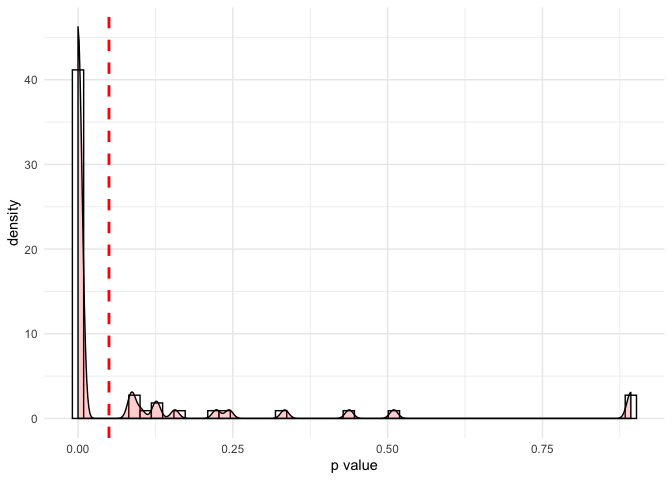
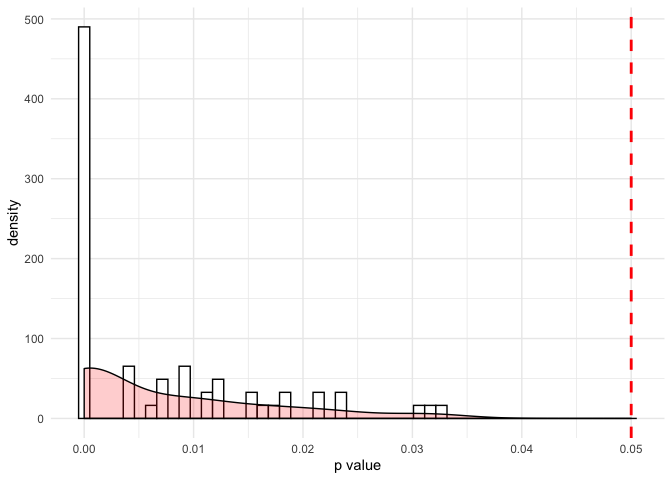
Corrected bug in multiverse making README to crush

diff --git a/README.md b/README.md
@@ -7,7 +7,6 @@
 status](https://travis-ci.org/AngelosPsy/multifear.svg?branch=master)](https://travis-ci.org/AngelosPsy/multifear)
 [![Lifecycle:
 experimental](https://img.shields.io/badge/lifecycle-experimental-orange.svg)](https://www.tidyverse.org/lifecycle/#experimental)
-[![Last-changedate](https://img.shields.io/badge/last%20change-2020--05--01-yellowgreen.svg)](/commits/master)
 <!-- badges: end -->
 
 # Multifear
@@ -39,16 +38,8 @@ doing that, let’s load some additional packages that we need for our
 example.
 
 ``` r
-library(dplyr)
-#> 
-#> Attaching package: 'dplyr'
-#> The following objects are masked from 'package:stats':
-#> 
-#>     filter, lag
-#> The following objects are masked from 'package:base':
-#> 
-#>     intersect, setdiff, setequal, union
-library(ggplot2)
+suppressPackageStartupMessages(library(dplyr))
+suppressPackageStartupMessages(library(ggplot2))
 ```
 
 Now we will use some simulated data set that are included as example
@@ -155,50 +146,6 @@ res <- multifear::universe_cs(cs1 = cs1, cs2 = cs2, data = example_data, subj = 
 #>   dfbetas.influence.merMod        car
 #> Note: Progress bars and callbacks are suppressed when running multicore.
 #> Note: Progress bars and callbacks are suppressed when running multicore.
-#> Warning in bind_rows_(x, .id): binding character and factor vector, coercing
-#> into character vector
-
-#> Warning in bind_rows_(x, .id): binding character and factor vector, coercing
-#> into character vector
-
-#> Warning in bind_rows_(x, .id): binding character and factor vector, coercing
-#> into character vector
-
-#> Warning in bind_rows_(x, .id): binding character and factor vector, coercing
-#> into character vector
-
-#> Warning in bind_rows_(x, .id): binding character and factor vector, coercing
-#> into character vector
-
-#> Warning in bind_rows_(x, .id): binding character and factor vector, coercing
-#> into character vector
-
-#> Warning in bind_rows_(x, .id): binding character and factor vector, coercing
-#> into character vector
-
-#> Warning in bind_rows_(x, .id): binding character and factor vector, coercing
-#> into character vector
-
-#> Warning in bind_rows_(x, .id): binding character and factor vector, coercing
-#> into character vector
-
-#> Warning in bind_rows_(x, .id): binding character and factor vector, coercing
-#> into character vector
-
-#> Warning in bind_rows_(x, .id): binding character and factor vector, coercing
-#> into character vector
-
-#> Warning in bind_rows_(x, .id): binding character and factor vector, coercing
-#> into character vector
-
-#> Warning in bind_rows_(x, .id): binding character and factor vector, coercing
-#> into character vector
-
-#> Warning in bind_rows_(x, .id): binding character and factor vector, coercing
-#> into character vector
-
-#> Warning in bind_rows_(x, .id): binding character and factor vector, coercing
-#> into character vector
 ```
 
 And here are the results
@@ -269,8 +216,53 @@ So now let’s see how you can run the same analyses but after we apply
 some selection criteria for non-learns. So, here it is
 
 ``` r
-#res_multi <- multifear::multiverse_cs(cs1 = cs1, cs2 = cs2, data = example_data, subj = "id", group = NULL, phase = "acquisition")
-#res_multi
+res_multi <- multifear::multiverse_cs(cs1 = cs1, cs2 = cs2, data = example_data, subj = "id", group = NULL, phase = "acquisition")
+#> Note: Progress bars and callbacks are suppressed when running multicore.
+#> Note: Progress bars and callbacks are suppressed when running multicore.
+#> Note: Progress bars and callbacks are suppressed when running multicore.
+#> Note: Progress bars and callbacks are suppressed when running multicore.
+#> Note: Progress bars and callbacks are suppressed when running multicore.
+#> Note: Progress bars and callbacks are suppressed when running multicore.
+#> Note: Progress bars and callbacks are suppressed when running multicore.
+#> Note: Progress bars and callbacks are suppressed when running multicore.
+#> Note: Progress bars and callbacks are suppressed when running multicore.
+#> Note: Progress bars and callbacks are suppressed when running multicore.
+#> Note: Progress bars and callbacks are suppressed when running multicore.
+#> Note: Progress bars and callbacks are suppressed when running multicore.
+#> Note: Progress bars and callbacks are suppressed when running multicore.
+#> Note: Progress bars and callbacks are suppressed when running multicore.
+#> Note: Progress bars and callbacks are suppressed when running multicore.
+#> Note: Progress bars and callbacks are suppressed when running multicore.
+#> Note: Progress bars and callbacks are suppressed when running multicore.
+#> Note: Progress bars and callbacks are suppressed when running multicore.
+#> Note: Progress bars and callbacks are suppressed when running multicore.
+#> Note: Progress bars and callbacks are suppressed when running multicore.
+#> Note: Progress bars and callbacks are suppressed when running multicore.
+#> Note: Progress bars and callbacks are suppressed when running multicore.
+#> Note: Progress bars and callbacks are suppressed when running multicore.
+#> Note: Progress bars and callbacks are suppressed when running multicore.
+#> Note: Progress bars and callbacks are suppressed when running multicore.
+#> Note: Progress bars and callbacks are suppressed when running multicore.
+#> Note: Progress bars and callbacks are suppressed when running multicore.
+#> Note: Progress bars and callbacks are suppressed when running multicore.
+#> Note: Progress bars and callbacks are suppressed when running multicore.
+#> Note: Progress bars and callbacks are suppressed when running multicore.
+res_multi
+#> # A tibble: 150 x 15
+#>    x     y     exclusion model controls method  p.value effect.size estimate
+#>    <chr> <chr> <chr>     <chr> <lgl>    <chr>     <dbl>       <dbl>    <dbl>
+#>  1 cs    scr   full_data t-te… NA       t-test  3.77e-3      0.455    0.752 
+#>  2 cs    scr   full_data t-te… NA       t-test  7.53e-3      0.455    0.752 
+#>  3 cs    scr   full_data Baye… NA       t-test NA           NA       11.5   
+#>  4 cs    scr   full_data Baye… NA       t-test NA           NA        0.0673
+#>  5 cs:t… scr   full_data rep … NA       rep A…  3.70e-9      0.0247  NA     
+#>  6 cs    scr   full_data rep … NA       rep A…  2.47e-7      0.0863  NA     
+#>  7 cs:s… scr   full_data rep … NA       rep B… NA           NA       NA     
+#>  8 cs:s… scr   full_data rep … NA       rep B… NA           NA       NA     
+#>  9 cs:s… scr   full_data rep … NA       rep B… NA           NA       NA     
+#> 10 cs:s… scr   full_data rep … NA       rep B… NA           NA       NA     
+#> # … with 140 more rows, and 6 more variables: statistic <dbl>, conf.low <dbl>,
+#> #   conf.high <dbl>, data_used <list>, cutoff <dbl>, name_cutoff <chr>
 ```
 
 In terms of calling the function, we see that we need exactly the same
@@ -284,7 +276,9 @@ reproduction criteria. So, the easiest thing to do is to see the
 exclusion column. Now, it has the following levels:
 
 ``` r
-#res_multi$exclusion %>% unique()
+res_multi$exclusion %>% unique()
+#> [1] "full_data"        "last_trial"       "last2_trial"      "last_first_trial"
+#> [5] "half_trials"
 ```
 
 The exclusion criteria actually (largely) follow the criteria reported
@@ -314,7 +308,7 @@ function.
 
 ## Inferences
 
-\#’ This is the most challenging part. For now you can use the following
+This is the most challenging part. For now you can use the following
 function and you will get:
 
 1)  A histogram will all the p value and a red line showing the
@@ -327,5 +321,12 @@ function and you will get:
 <!-- end list -->
 
 ``` r
-#multifear::inference_cs(res_multi)
+multifear::inference_cs(res_multi)
+#> Warning: Removed 90 rows containing non-finite values (stat_bin).
+#> Warning: Removed 90 rows containing non-finite values (stat_density).
 ```
+
+![](README_files/figure-gfm/unnamed-chunk-12-1.png)<!-- -->
+
+    #>   mean_p_value prop_p_value
+    #> 1           NA           40
